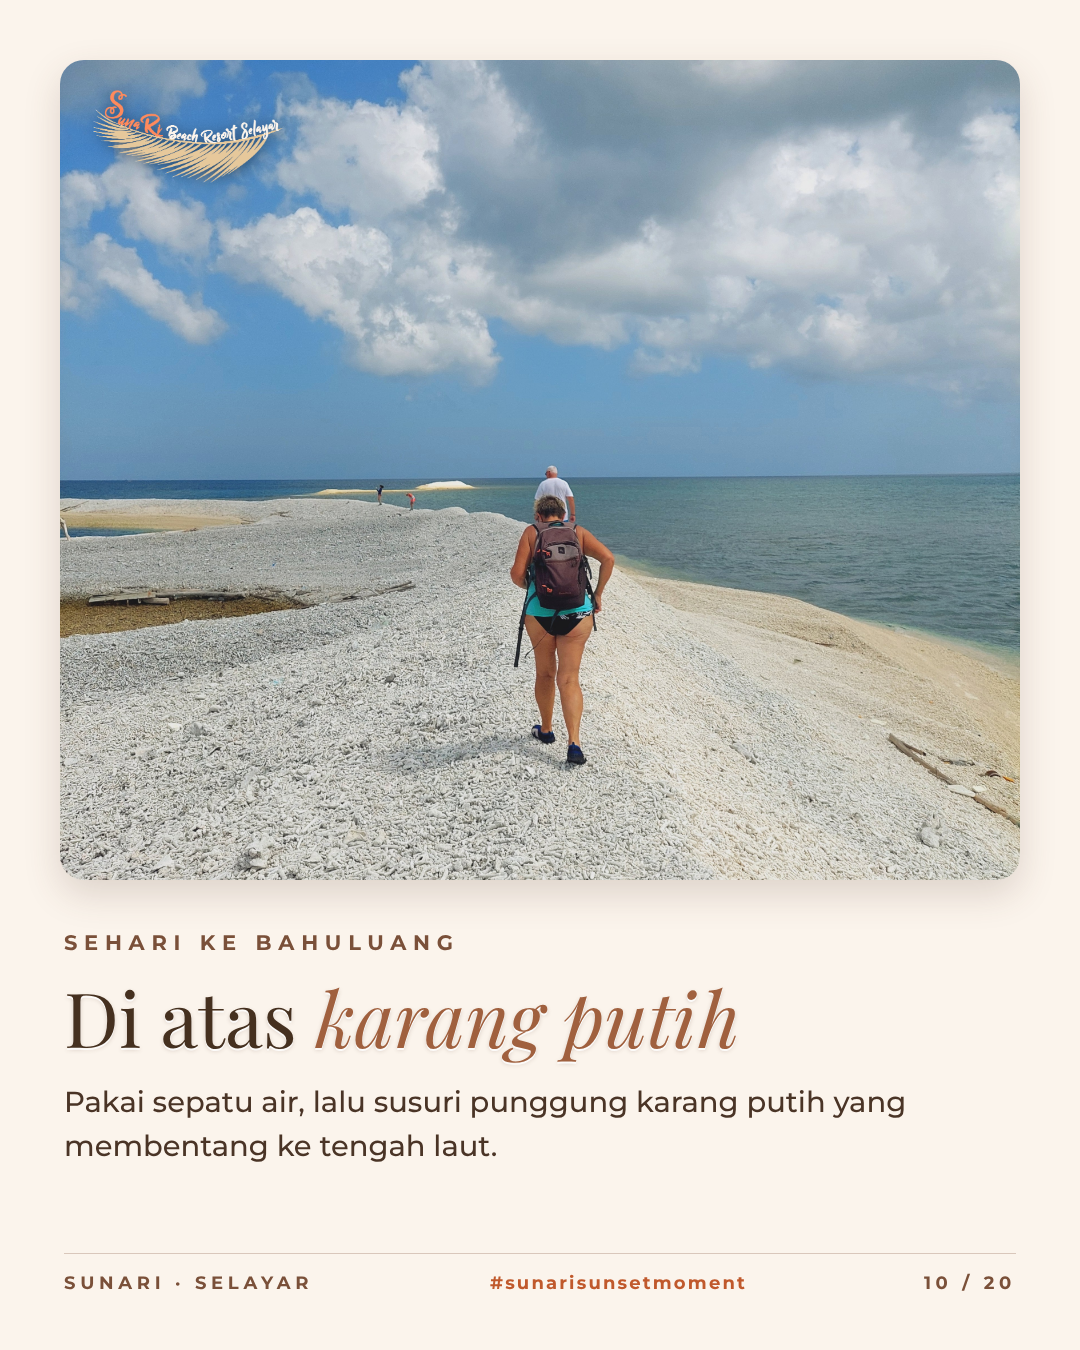
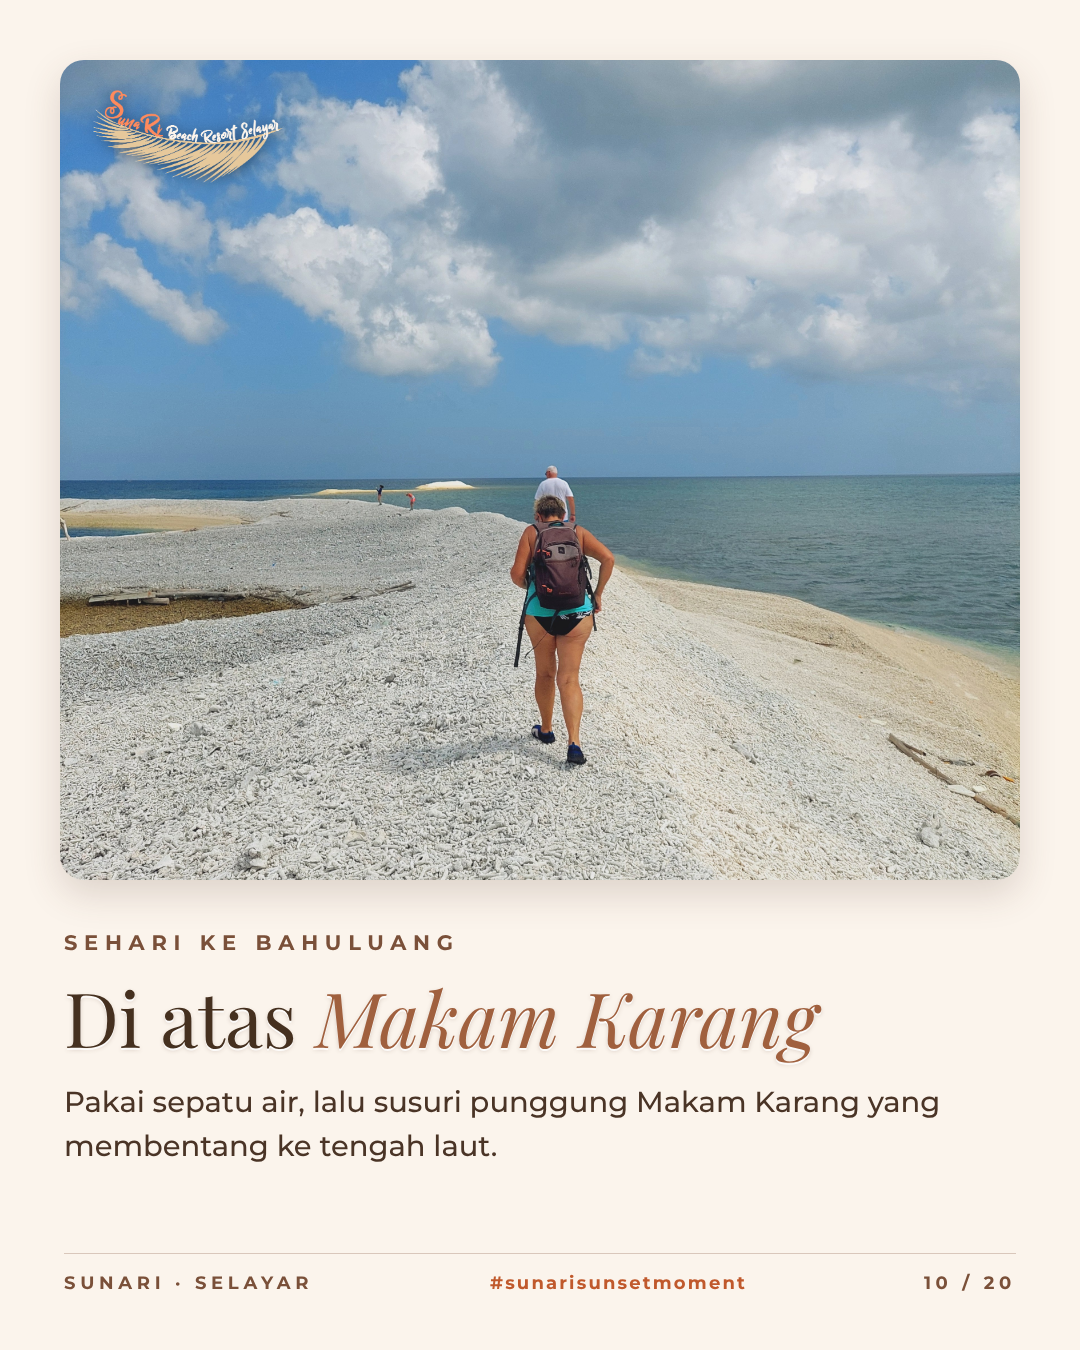
Feed Bahuluang 20: slide 10 jadi 'Di atas Makam Karang'
Claude-Session: https://claude.ai/code/session_01KeLc5cK8xRmfcoMz1j2mcH

Changed region(s): [[0.275, 0.7156, 0.7639, 0.7778], [0.5806, 0.8089, 0.8861, 0.84]]

diff --git a/social/bahuluang_feed20.html b/social/bahuluang_feed20.html
@@ -52,7 +52,7 @@ body{background:#bbb;font-family:Montserrat,sans-serif}
   <div class="bt"><span>SunaRi · Selayar</span><span class="h">#sunarisunsetmoment</span><span>08 / 20</span></div></div><div class="t" id="bahuluang-09"><div class="ph"><img src="../assets/photos/bahuluang/31-snorkeling-dekat-pondok-apung.jpg" style="object-position:45% 50%" alt=""><img class="lg" src="../assets/logo-sunari-color-dark.png" alt=""></div>
   <div class="kick">Sehari ke Bahuluang</div><div class="ttl emb">Air sebening <em>kaca</em></div><div class="sub">Masker dan pelampung sudah disiapkan. Ikan-ikan kecil datang menyapa di antara karang.</div>
   <div class="bt"><span>SunaRi · Selayar</span><span class="h">#sunarisunsetmoment</span><span>09 / 20</span></div></div><div class="t" id="bahuluang-10"><div class="ph"><img src="../assets/photos/bahuluang/35-berjalan-di-hamparan-karang.jpg" style="object-position:50% 55%" alt=""><img class="lg" src="../assets/logo-sunari-color-dark.png" alt=""></div>
-  <div class="kick">Sehari ke Bahuluang</div><div class="ttl emb">Di atas <em>karang putih</em></div><div class="sub">Pakai sepatu air, lalu susuri punggung karang putih yang membentang ke tengah laut.</div>
+  <div class="kick">Sehari ke Bahuluang</div><div class="ttl emb">Di atas <em>Makam Karang</em></div><div class="sub">Pakai sepatu air, lalu susuri punggung Makam Karang yang membentang ke tengah laut.</div>
   <div class="bt"><span>SunaRi · Selayar</span><span class="h">#sunarisunsetmoment</span><span>10 / 20</span></div></div><div class="t" id="bahuluang-11"><div class="ph"><img src="../assets/photos/bahuluang/36-kru-membantu-tamu-turun-kapal.jpg" style="object-position:50% 60%" alt=""><img class="lg" src="../assets/logo-sunari-color-dark.png" alt=""></div>
   <div class="kick">Sehari ke Bahuluang</div><div class="ttl emb">Ditemani kru yang <em>sigap</em></div><div class="sub">Naik-turun kapal, memasang alat snorkeling, mencari spot foto. Kru kapal selalu siap membantu.</div>
   <div class="bt"><span>SunaRi · Selayar</span><span class="h">#sunarisunsetmoment</span><span>11 / 20</span></div></div><div class="t" id="bahuluang-12"><div class="ph"><img src="../assets/photos/bahuluang/48-pasir-timbul-langit-biru.jpg" style="object-position:50% 65%" alt=""><img class="lg" src="../assets/logo-sunari-color-dark.png" alt=""></div>

diff --git a/social/build_bahuluang_feed20.py b/social/build_bahuluang_feed20.py
@@ -24,7 +24,7 @@ SL = [
  (B + "19-batu-berlubang.jpg", "50% 55%", 'Batu karang <em>berlubang</em>', "Salah satu pemandangan yang menyapa di perjalanan. Siapkan kamera.", ""),
  (B + "25-makam-karang-snorkeling-dan-kapal.jpg", "40% 60%", 'Tiba di <em>Makam Karang</em>', "Gosong karang putih di tengah laut, dikelilingi air jernih. Spot snorkeling pertama hari ini.", "10.00"),
  (B + "31-snorkeling-dekat-pondok-apung.jpg", "45% 50%", 'Air sebening <em>kaca</em>', "Masker dan pelampung sudah disiapkan. Ikan-ikan kecil datang menyapa di antara karang.", ""),
- (B + "35-berjalan-di-hamparan-karang.jpg", "50% 55%", 'Di atas <em>karang putih</em>', "Pakai sepatu air, lalu susuri punggung karang putih yang membentang ke tengah laut.", ""),
+ (B + "35-berjalan-di-hamparan-karang.jpg", "50% 55%", 'Di atas <em>Makam Karang</em>', "Pakai sepatu air, lalu susuri punggung Makam Karang yang membentang ke tengah laut.", ""),
  (B + "36-kru-membantu-tamu-turun-kapal.jpg", "50% 60%", 'Ditemani kru yang <em>sigap</em>', "Naik-turun kapal, memasang alat snorkeling, mencari spot foto. Kru kapal selalu siap membantu.", ""),
  (B + "48-pasir-timbul-langit-biru.jpg", "50% 65%", 'Pasir yang <em>muncul</em>', "Pasir Timbul Bahuluang muncul di tengah laut. Kapten akan membawamu ke sana saat airnya paling pas.", ""),
  (B + "42-pantai-barat-rombongan-di-air.jpg", "50% 60%", 'Makan siang di <em>pasir putih</em>', "Rehat di pantai barat Bahuluang, Pantai Bone Kidi dan Bone Bakka. Lunchbox, air toska, tidak ada yang perlu dikejar.", ""),
